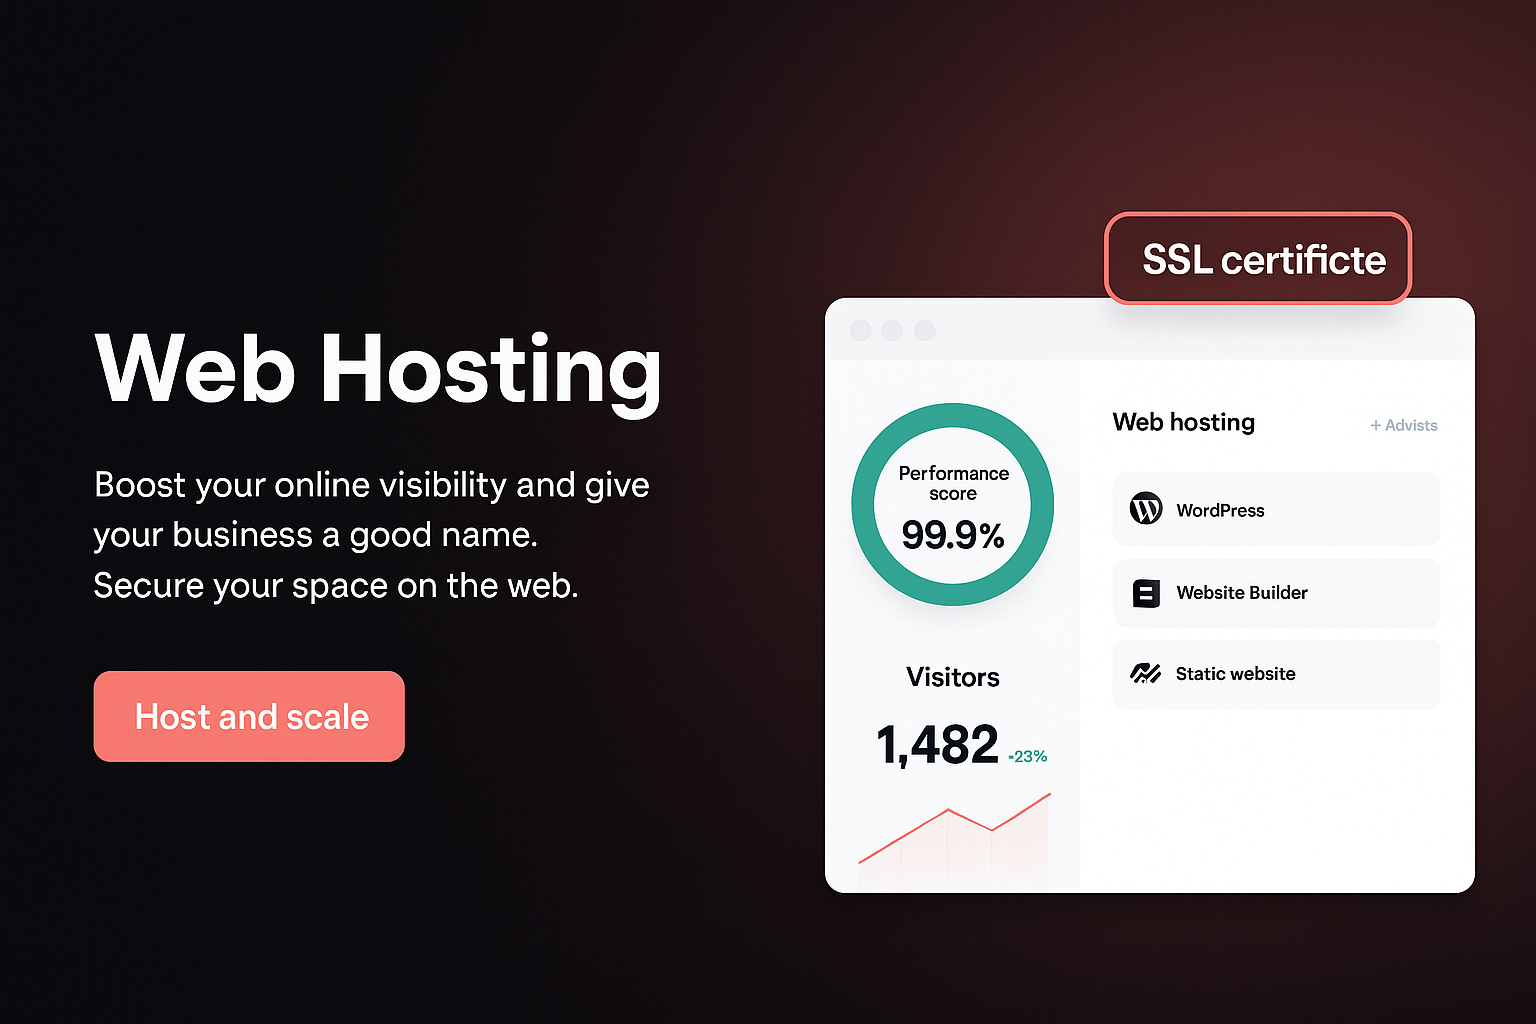
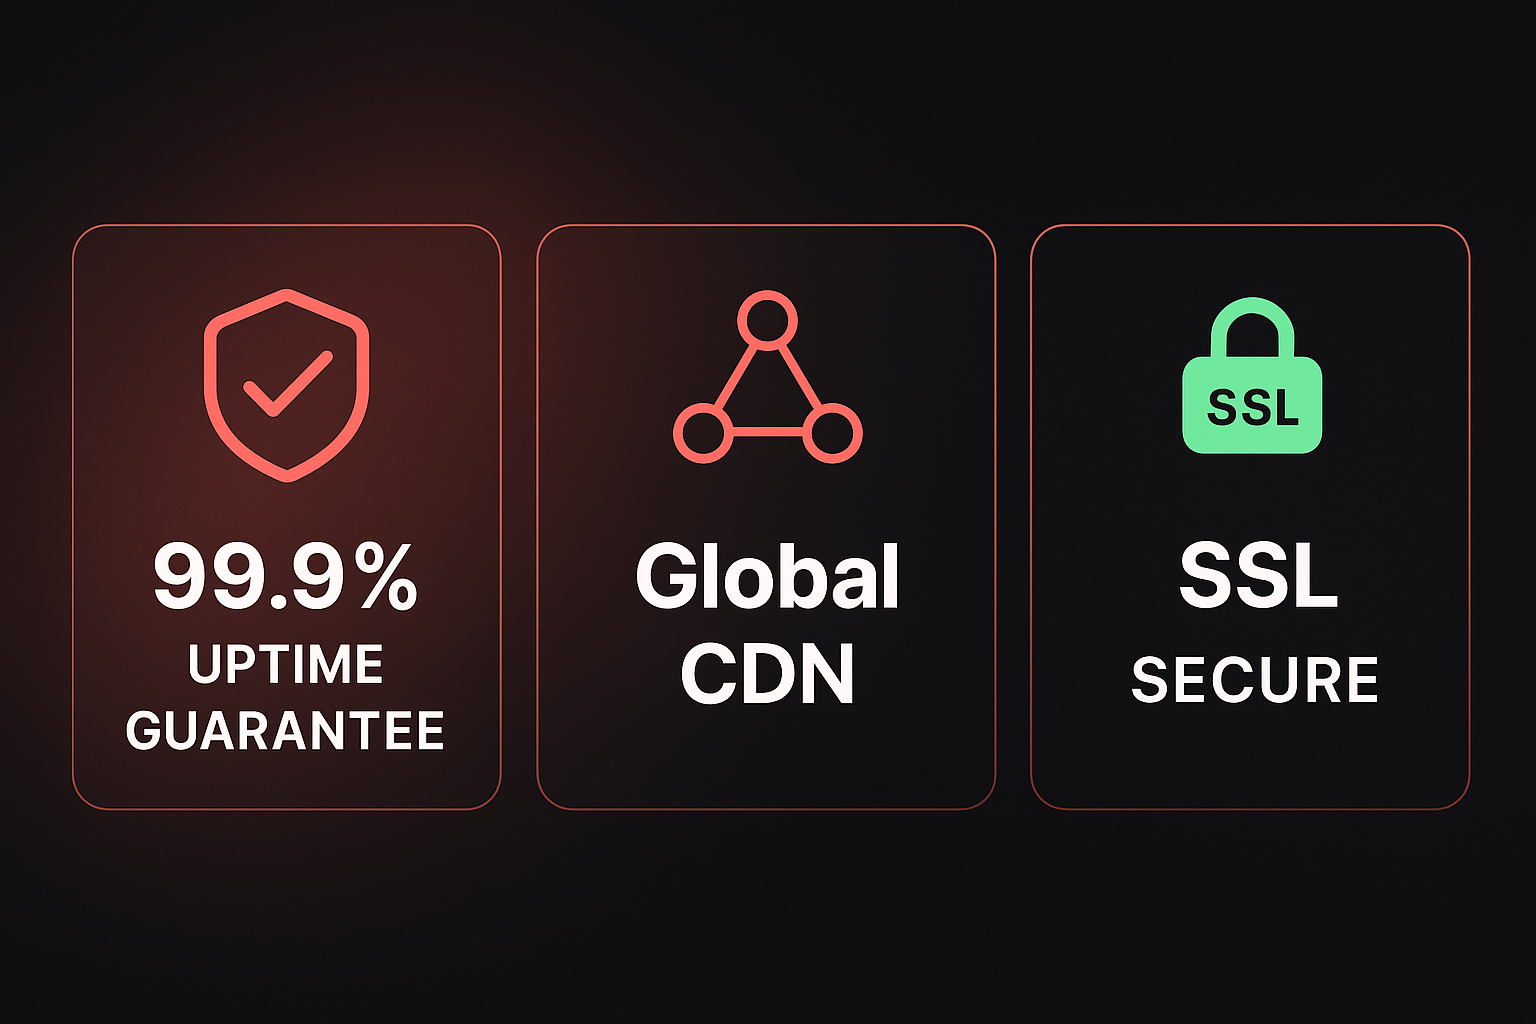
updated code

diff --git a/src/components/nav/menu.svelte b/src/components/nav/menu.svelte
@@ -1,0 +1,38 @@
+<script lang="ts">
+    let menuOpen = false;
+
+    function closeMenu() {
+        menuOpen = false;
+    }
+</script>
+
+<div class="flex items-center">
+    <!-- Hamburger Icon -->
+    <button class="md:hidden cursor-pointer text-white focus:outline-none" on:click={() => (menuOpen = !menuOpen)}>
+        <svg class="h-6 w-6" fill="none" stroke="currentColor" viewBox="0 0 24 24" xmlns="http://www.w3.org/2000/svg">
+            <path d="M4 6h16M4 12h16M4 18h16" stroke-linecap="round" stroke-linejoin="round" stroke-width="2"/>
+        </svg>
+    </button>
+
+
+    <!-- Navigation -->
+    <nav class={`${
+		menuOpen
+			? 'flex flex-col bg-black absolute top-16 left-0 w-full p-6 z-50'
+			: 'hidden'
+	} md:flex gap-6 text-gray-400 items-center`}>
+        <a class="hover:text-red-300" href="/pricing">Pricing</a>
+        <a class="hover:text-white" href="/services">Services</a>
+        <a class="hover:text-white" href="/apps">Apps</a>
+        <a class="hover:text-white" href="/contact">Contact</a>
+        <div class="flex md:flex-row flex-col gap-6 md:pl-6">
+            <a class="hover:text-white" href="/cart">Cart</a>
+            <a class="hover:text-white" href="/login">Login</a>
+        </div>
+    </nav>
+
+    <!-- Overlay -->
+    {#if menuOpen}
+        <div class="fixed inset-0  z-40" on:click={closeMenu}></div>
+    {/if}
+</div>
